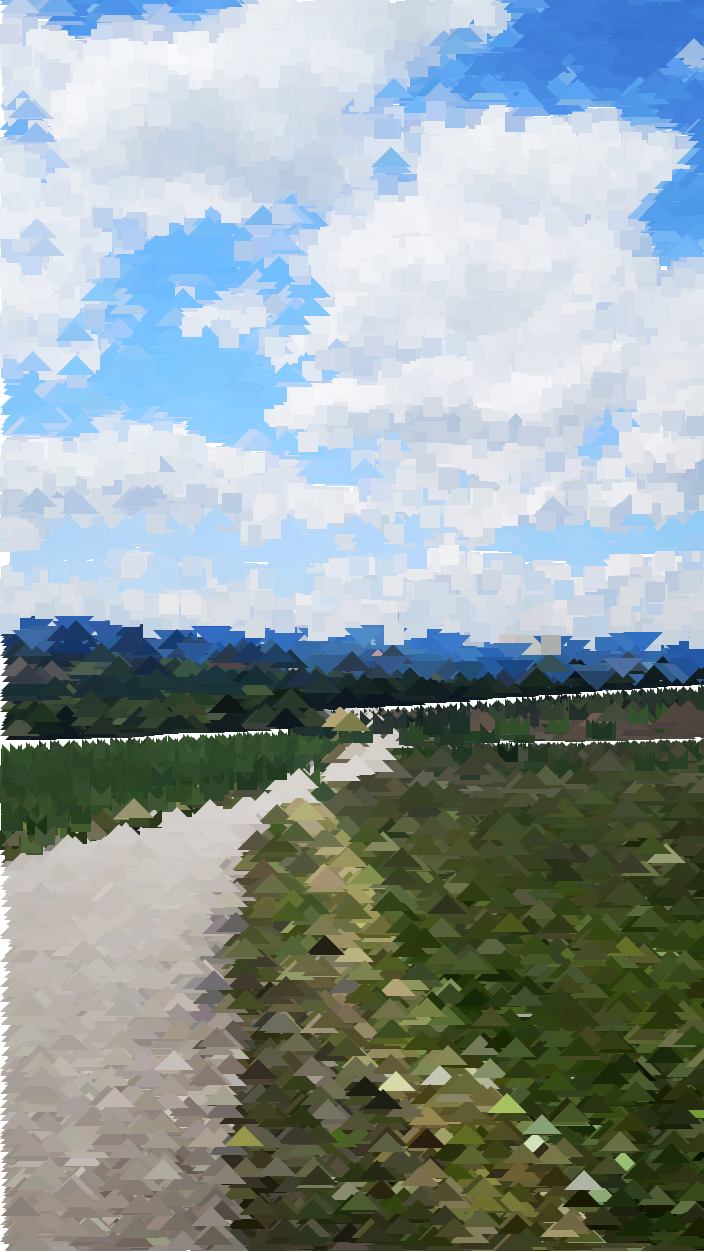
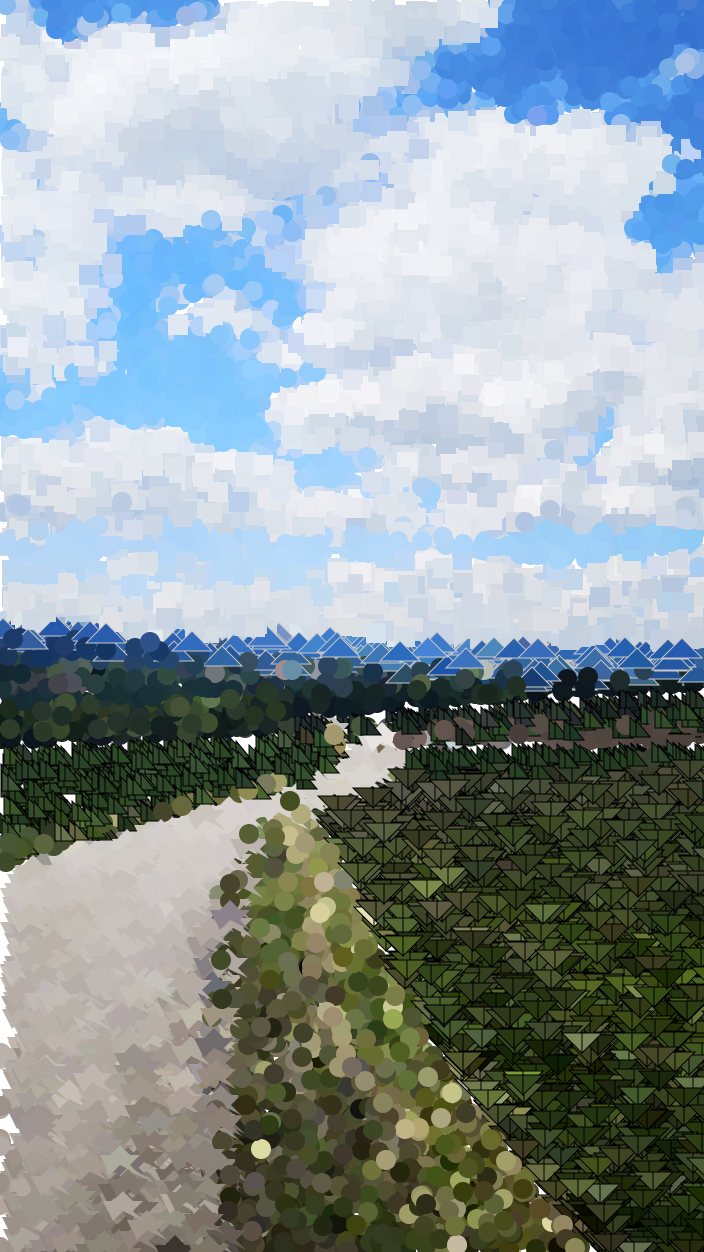
update image

diff --git a/sketch.js b/sketch.js
@@ -2,49 +2,17 @@ let sourceImg=null;
 let maskImg=null;
 let renderCounter=0;
 
-//Rapeseed Field
 
-// let sourceFile = "Raps.jpg";
-// let maskFile   = "RapsMask1.png";
-// let maskFile2  = "RapsMask2.png";
-// let maskFile3  = "RapsMask3.png";
-// let outputFile = "Raps_artwork1.png";
+let sourceFile = "Burgenland.jpg";
+let maskFile   = "BurgenlandMask.png";
+let outputFile = "artwork_2.png";
 
-//Naturschutzgebiet sign
 
-// let sourceFile = "Burgenland.jpg";
-// let maskFile   = "BurgenlandMask.png";
-// let outputFile = "artwork_2.png";
-
-//RadlWeg
-
-let sourceFile = "RadlWeg.jpg";
-let maskFile   = "RadlWegMask1.png";
-let maskFile2  = "RadlWegMask2.png";
-let maskFile3  = "RadlWegMask3.png";
-let maskFile4  = "RadlWegMask4.png";
-let maskFile5  = "RadlWegMask5.png";
-let outputFile = "artwork_3.png";
 
 function preload() {
 
-  //Rapeseed Field 
-  // sourceImg = loadImage(sourceFile);
-  // maskImg = loadImage(maskFile);
-  // maskImg2 = loadImage(maskFile2);
-  // maskImg3 = loadImage(maskFile3);
-
-  //naturschutzgebiet sign
-  // sourceImg = loadImage(sourceFile);
-  // maskImg = loadImage(maskFile);
-
-  //RadlWeg
   sourceImg = loadImage(sourceFile);
   maskImg = loadImage(maskFile);
-  maskImg2 = loadImage(maskFile2);
-  maskImg3 = loadImage(maskFile3);
-  maskImg4 = loadImage(maskFile4);
-  maskImg5 = loadImage(maskFile5);
 
 }
 
@@ -56,84 +24,53 @@ function setup () {
   noStroke();
   background(255);
 
-  //rapeseed field
-  // sourceImg.loadPixels();
-  // maskImg.loadPixels();
-  // maskImg2.loadPixels();
-  // maskImg3.loadPixels();
-
   //naturschutzgebiet sign
-  // sourceImg.loadPixels();
-  // maskImg.loadPixels();
-
-  //radlweg
   sourceImg.loadPixels();
   maskImg.loadPixels();
-  maskImg2.loadPixels();
-  maskImg3.loadPixels();
-  maskImg4.loadPixels();
-  maskImg5.loadPixels();
 
 }
 
-function draw () {
-  for(let i=0;i<2000;i++) {
-    let x = floor(random(sourceImg.width));
-    let y = floor(random(sourceImg.height));
-    let pix = sourceImg.get(x, y);
-    let mask = maskImg.get(x, y);
-    let mask2 = maskImg2.get(x,y);
-    let mask3 = maskImg3.get(x,y);
-    let mask4 = maskImg4.get(x,y);
-    let mask5 = maskImg5.get(x,y);
-    let pointSize = 20;
-    let halfSize = 50;
-    fill(pix);
-    if(mask[0] > 128) {
-      noStroke();
-      rect(x,y,20,20);
-    } 
-    else if(mask2[0] > 128){
-      //ellipse(x, y, pointSize, pointSize);
-      stroke(200);
-      //triangle(x,y,x+pointSize,y+pointSize,x+pointSize,y);
-      triangle(x,y,x-pointSize,y+pointSize,x+pointSize,y+pointSize); 
-    } 
-    else if(mask3[0] > 128){
-      //stroke(100,100,0);
-      stroke(0);
-      triangle(x, y, x, y+pointSize,x+pointSize,y+pointSize);
-      triangle(x+6, y+3, x+6, y+pointSize,x+pointSize,y+pointSize);
+const chunkHeight =20;
+const chunkWidth =20;
 
-    } 
-    else if(mask4[0] > 128){
-      stroke(0);
-      //ellipse(x, y, pointSize, pointSize);
-      //noStroke();
-      triangle(x,y,x+pointSize,y+pointSize,x+pointSize,y);
-      triangle(x+pointSize,y,x+pointSize,y+pointSize,x+pointSize+pointSize,y); 
-    } 
-    else if(mask5[0] > 128){
-      //stroke(100,100,0);
-      stroke(200);
-      //triangle(x, y, x, y+pointSize,x+pointSize,y+pointSize);
-      //triangle(x,y+pointSize,x+pointSize,y,x+pointSize,y+pointSize);
-      beginShape();
-      vertex(x,y);
-      vertex(x+15,y-15);
-      vertex(x+30,y);
-      vertex(x+15,y+15);
-      vertex(x,y);
-      endShape();
-    }
-    else {
-      noStroke();
-      //rect(x, y, pointSize, pointSize);  
-      // triangle(x,y,x+pointSize,y-pointSize,x+pointSize,y);
-      // triangle(x+pointSize,y,x+pointSize,y-pointSize,x+pointSize+pointSize,y); 
-      ellipse(x, y, pointSize, pointSize);
+function draw () {
+  for(let y=0; y<height; y=y+chunkHeight){
+    for(let x=0; x<width; x=x+chunkWidth){
+      let pixl = sourceImg.get(x,y);
+      let mask = maskImg.get(x,y);
+      fill(pixl);
+      if (mask[0] > 128) {
+        stroke(155);
+        let cwx = chunkWidth/2;
+        let chx = chunkHeight/2;
+        rect(x,y,cwx,chx);
+        rect(x+cwx,y,cwx,chx);
+        rect(x,y+chx,cwx,chx);
+        rect(x+cwx,y+chx,cwx,chx);
+      } else{
+        noStroke();
+        rect(x,y,chunkWidth,chunkHeight);
+        triangle(x-chunkWidth,y+chunkHeight,x,y,x+chunkWidth,y+chunkHeight); 
+      }
     }
   }
+  //RANDOMCODEFORBURGENLAND
+  // for(let i=0;i<2000;i++) {
+  //   let x = floor(random(sourceImg.width));
+  //   let y = floor(random(sourceImg.height));
+  //   let pix = sourceImg.get(x, y);
+  //   let mask = maskImg.get(x, y);
+  //   let pointSize = 20;
+  //   let halfSize = 50;
+  //   fill(pix);
+  //   if(mask[0] > 128) {
+  //     noStroke();
+  //     rect(x,y,20,20);
+  //   } else {
+  //     noStroke();
+  //     ellipse(x, y, pointSize, pointSize);
+  //   }
+  // }
   renderCounter = renderCounter + 1;
   if(renderCounter > 10) {
     console.log("Done!")
